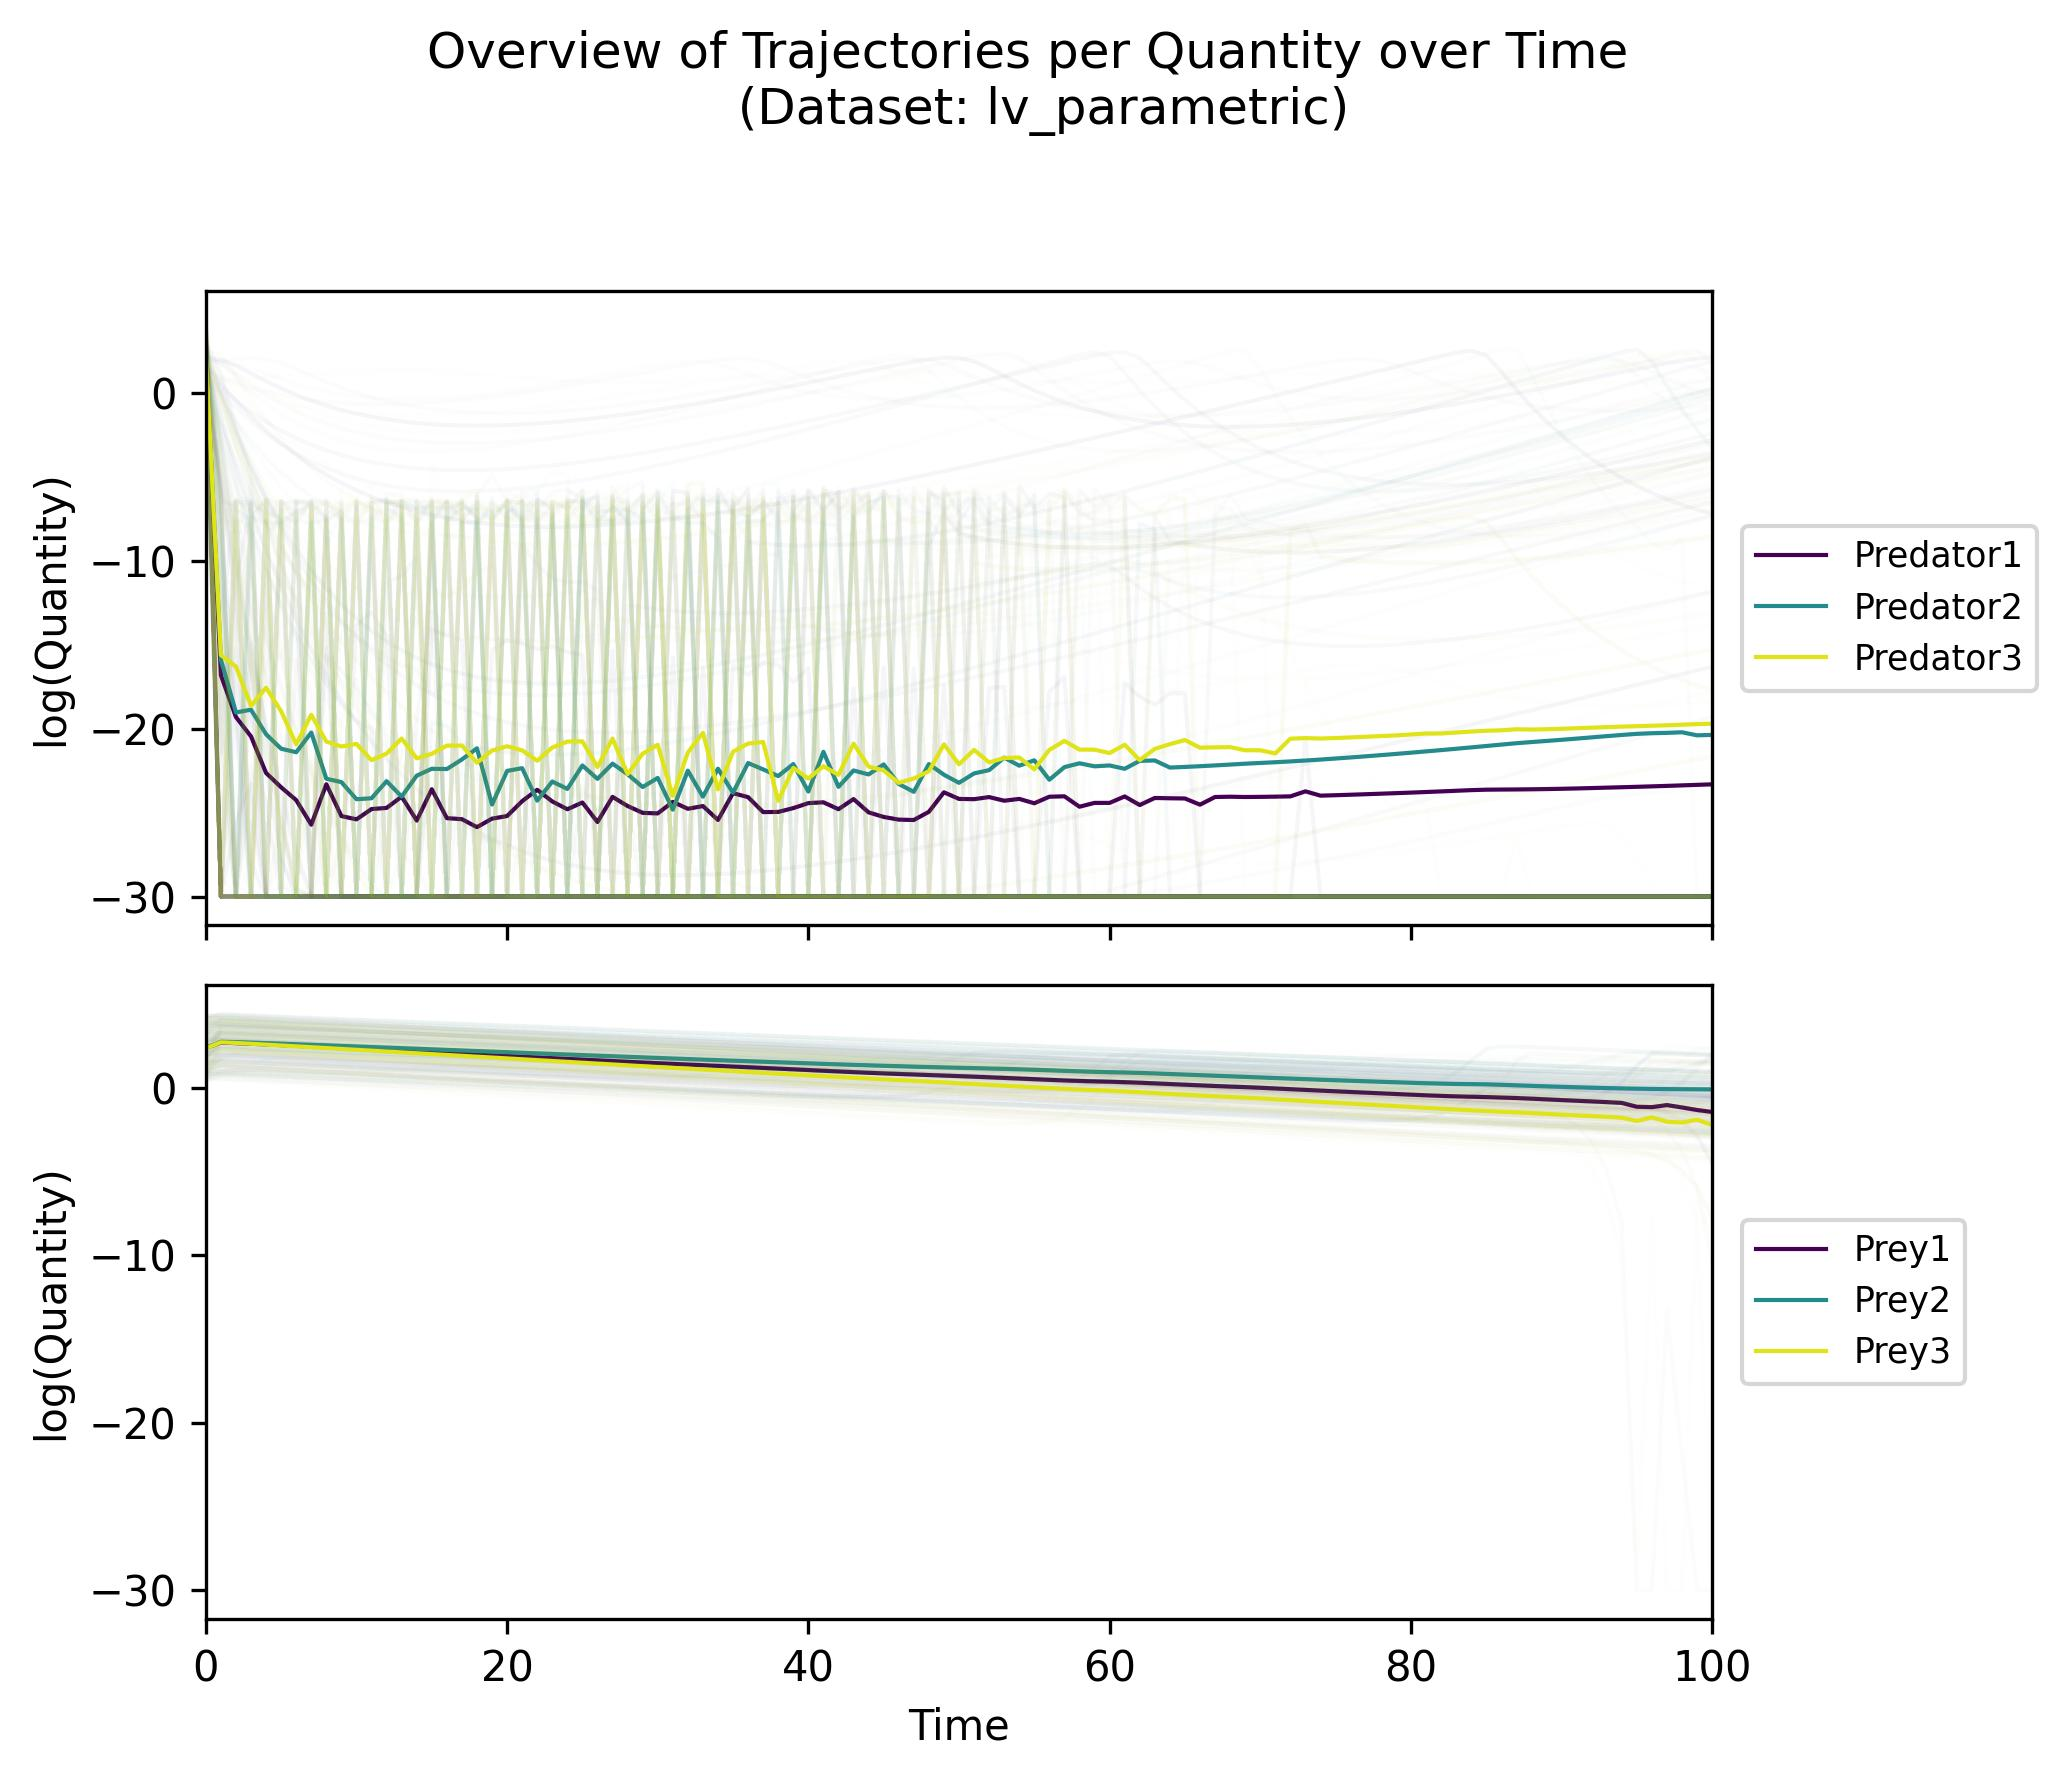
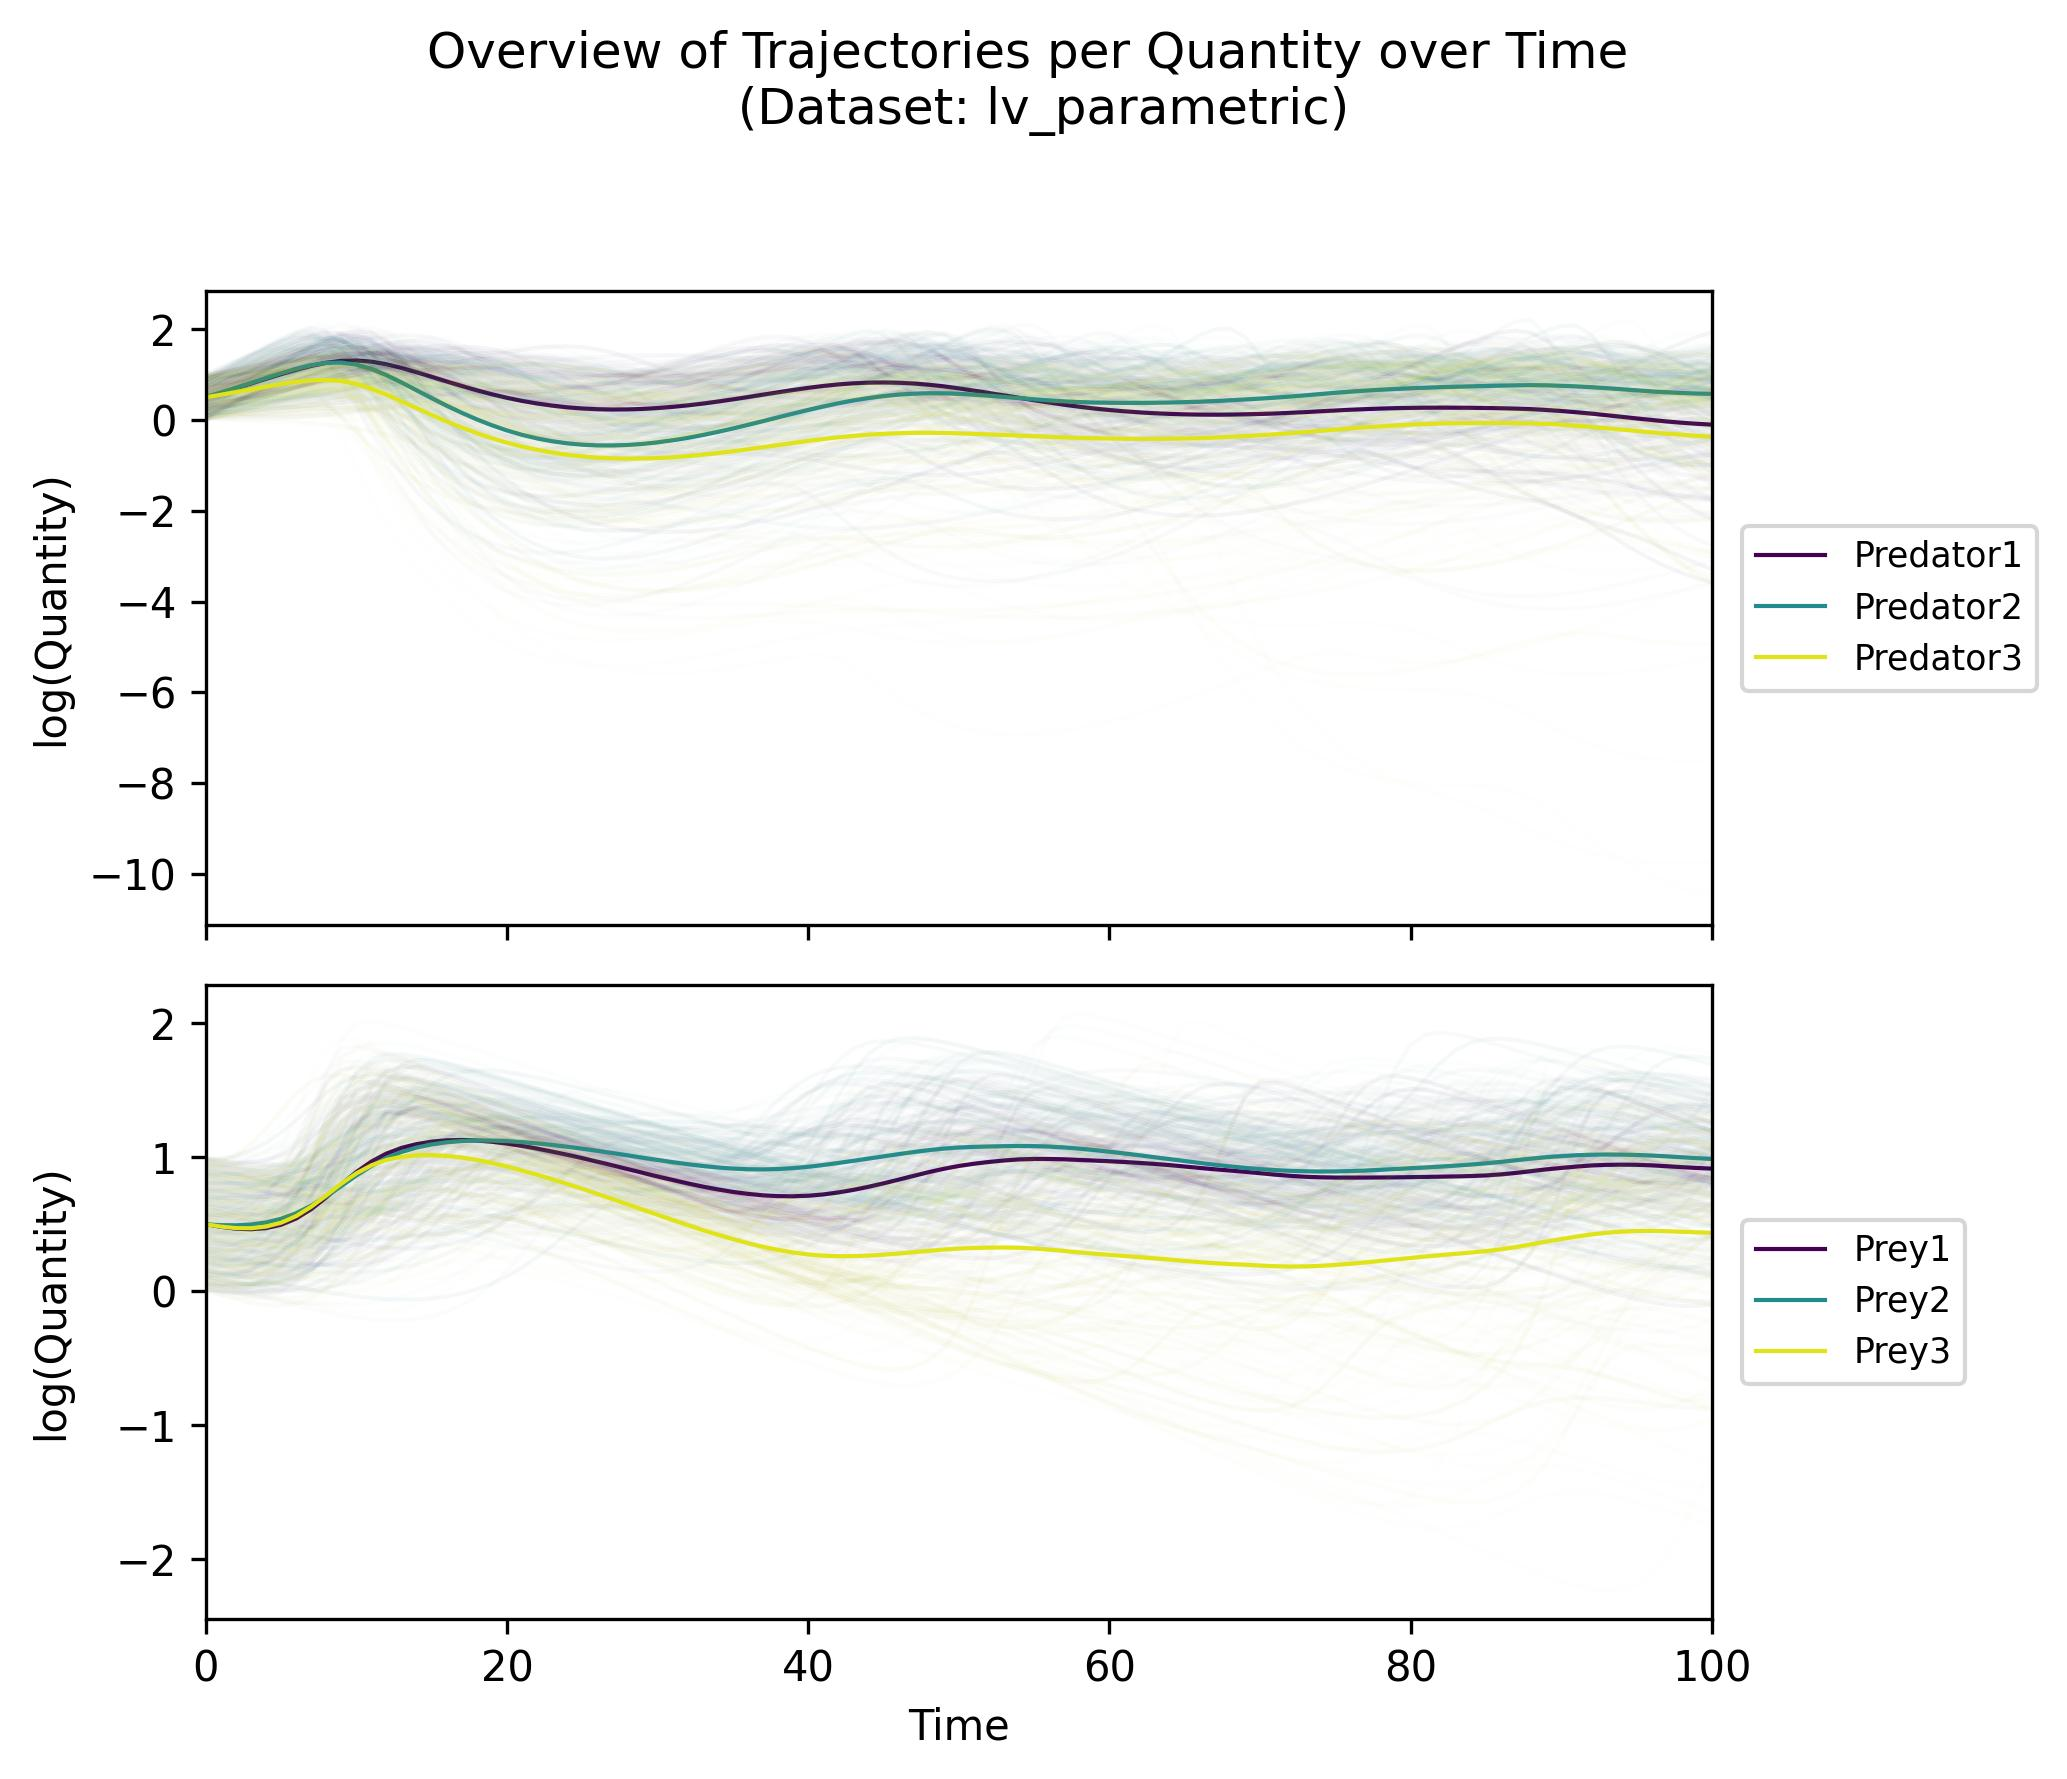
Fix parametric lv data generation

diff --git a/datasets/_data_generation/generate_data.py b/datasets/_data_generation/generate_data.py
@@ -63,49 +63,59 @@ def generate_initial_samples(
     """
     Generates Sobol samples for initial conditions and (optionally) fixed parameters.
 
-    Parameters
-    ----------
-    num : int
-        Number of samples.
-    sampling : dict
-        Sampling settings. This dictionary should contain:
-          - "bounds": bounds for the state variables.
-          - Optionally, "params_bounds": bounds for the fixed parameters.
-          - "space": sampling space for state variables ('linear' or 'log').
-          - Optionally, "params_space": sampling space for the parameters.
-    seed : int, optional
-        Random seed.
-
-    Returns
-    -------
-    tuple[np.ndarray, np.ndarray | None]
-        (initial_conditions, params)
-        with shapes (num, n_state) and (num, n_params) respectively.
+    Bounds are always in linear space. 'space' / 'params_space' only switch
+    between linear vs. log-uniform sampling across those linear bounds.
     """
     state_bounds = sampling["bounds"]
     params_bounds = sampling.get("params_bounds", None)
-    if params_bounds is not None:
-        combined_bounds = state_bounds + params_bounds
-    else:
-        combined_bounds = state_bounds
 
-    sobol_dim = len(combined_bounds)
+    # Determine sampling spaces
+    state_space = sampling.get("space", "linear")
+    params_space = sampling.get("params_space", state_space)
+
+    # Build per-dimension transformed bounds
+    transformed_bounds: list[tuple[float, float]] = []
+
+    # State dims
+    for lb, ub in state_bounds:
+        if state_space == "log":
+            if lb <= 0 or ub <= 0:
+                raise ValueError("All state bounds must be positive for log sampling.")
+            transformed_bounds.append((np.log(lb), np.log(ub)))
+        else:
+            transformed_bounds.append((lb, ub))
+
+    # Param dims (if any)
+    if params_bounds is not None:
+        for lb, ub in params_bounds:
+            if params_space == "log":
+                if lb <= 0 or ub <= 0:
+                    raise ValueError(
+                        "All param bounds must be positive for log sampling."
+                    )
+                transformed_bounds.append((np.log(lb), np.log(ub)))
+            else:
+                transformed_bounds.append((lb, ub))
+
+    # Sobol in the transformed space
+    sobol_dim = len(transformed_bounds)
     sampler = qmc.Sobol(d=sobol_dim, scramble=True, seed=seed)
     m = int(np.ceil(np.log2(num)))
-    samples = sampler.random_base2(m=m)[:num]
-    lower_bounds, upper_bounds = zip(*combined_bounds)
-    samples = qmc.scale(samples, lower_bounds, upper_bounds)
+    raw = sampler.random_base2(m=m)[:num]
+    lowers, uppers = zip(*transformed_bounds)
+    scaled = qmc.scale(raw, lowers, uppers)
 
+    # Split out states and params
     n_state = len(state_bounds)
-    initial_conditions = samples[:, :n_state]
-    params = samples[:, n_state:] if params_bounds is not None else None
+    initial_conditions = scaled[:, :n_state]
+    params = scaled[:, n_state:] if params_bounds is not None else None
 
-    if sampling.get("space", "linear") == "log":
+    # Exponentiate back any log-sampled dims
+    if state_space == "log":
         initial_conditions = np.exp(initial_conditions)
-    if params is not None:
-        p_space = sampling.get("params_space", sampling.get("space", "linear"))
-        if p_space == "log":
-            params = np.exp(params)
+    if params is not None and params_space == "log":
+        params = np.exp(params)
+
     return initial_conditions, params
 
 
@@ -274,9 +284,9 @@ def parse_args() -> ArgumentParser:
     parser = ArgumentParser(
         description="Generate datasets for ODE systems and save them in HDF5 format."
     )
-    parser.add_argument("--num_train", "-tr", type=int, default=70)
-    parser.add_argument("--num_test", "-te", type=int, default=10)
-    parser.add_argument("--num_val", "-va", type=int, default=20)
+    parser.add_argument("--num_train", "-tr", type=int, default=140)
+    parser.add_argument("--num_test", "-te", type=int, default=20)
+    parser.add_argument("--num_val", "-va", type=int, default=40)
     parser.add_argument(
         "--func",
         "-f",

diff --git a/datasets/_data_generation/odes.py b/datasets/_data_generation/odes.py
@@ -1435,7 +1435,7 @@ def osu_initial_conditions(num: int) -> np.ndarray:
     return ic
 
 
-def lotka_volterra(n: np.ndarray) -> np.ndarray:
+def lotka_volterra(t: float, n: np.ndarray) -> np.ndarray:
     """
     Defines the Lotka-Volterra predator-prey model with three predators and three prey.
 
@@ -1463,63 +1463,68 @@ def lotka_volterra(n: np.ndarray) -> np.ndarray:
     return derivatives
 
 
+import numpy as np
+
+
 def parametric_lotka_volterra(
     t: float, n: np.ndarray, params: np.ndarray
 ) -> np.ndarray:
     """
-    Defines a parametric Lotka–Volterra model for three predators and three prey.
-    The equations follow those of the standard Lotka–Volterra model, except that the
-    prey reproduction rates and predation coefficients are slightly modified by an
-    external parameter alpha.
+    Parametric Lotka–Volterra for three predators and three prey.
+
+    For alpha = 0, this is bit-for-bit identical to the base lotka_volterra:
+      dp1/dt = 0.5 p1 - 0.02 p1 q1 - 0.01 p1 q2
+      … etc …
+
+    For alpha > 0, prey growth rates are scaled by (1 - alpha)
+    and predation rates by (1 + alpha), giving a slight perturbation.
 
     Parameters
     ----------
     t : float
-        Current time (unused in these autonomous equations).
+        Time (unused; system is autonomous).
     n : np.ndarray
-        Current populations [p1, p2, p3, q1, q2, q3].
+        Populations [p1, p2, p3, q1, q2, q3].
     params : np.ndarray
-        Fixed parameter(s) [alpha]. A higher alpha might represent greater environmental stress.
+        [alpha], with alpha ≥ 0 controlling deviation.
 
     Returns
     -------
     np.ndarray
-        Derivatives [dp1/dt, dp2/dt, dp3/dt, dq1/dt, dq2/dt, dq3/dt].
+        Derivatives [dp1_dt, dp2_dt, dp3_dt, dq1_dt, dq2_dt, dq3_dt].
     """
-    # Unpack populations:
     p1, p2, p3, q1, q2, q3 = n
-    alpha = params[0]  # external parameter controlling the slight modifications
-    epsilon = 0.0  # 0.001  # small factor for a slight modification
+    alpha = params[0]
 
-    # Modified reproduction rates (same as lotka_volterra with a small reduction)
-    rep_p1 = (0.5 * (1 - epsilon * alpha)) * p1
-    rep_p2 = (0.6 * (1 - epsilon * alpha)) * p2
-    rep_p3 = (0.4 * (1 - epsilon * alpha)) * p3
+    # --- reproduction rates (prey) ---
+    # baseline: 0.5, 0.6, 0.4
+    rep_p1 = 0.5 * (1.0 - alpha) * p1
+    rep_p2 = 0.6 * (1.0 - alpha) * p2
+    rep_p3 = 0.4 * (1.0 - alpha) * p3
 
-    # Modified predation terms (scaled slightly upward)
-    pred1 = (0.02 * (1 + epsilon * alpha)) * p1 * q1 + (
-        0.01 * (1 + epsilon * alpha)
-    ) * p1 * q2
-    pred2 = (0.03 * (1 + epsilon * alpha)) * p2 * q1 + (
-        0.015 * (1 + epsilon * alpha)
-    ) * p2 * q3
-    pred3 = (0.01 * (1 + epsilon * alpha)) * p3 * q2 + (
-        0.025 * (1 + epsilon * alpha)
-    ) * p3 * q3
+    # --- predation terms ---
+    # baseline coefficients: 0.02, 0.01, 0.03, 0.015, 0.01, 0.025
+    pred1 = (0.02 * (1.0 + alpha)) * p1 * q1 + (0.01 * (1.0 + alpha)) * p1 * q2
 
-    # Predator death rates (unchanged)
+    pred2 = (0.03 * (1.0 + alpha)) * p2 * q1 + (0.015 * (1.0 + alpha)) * p2 * q3
+
+    pred3 = (0.01 * (1.0 + alpha)) * p3 * q2 + (0.025 * (1.0 + alpha)) * p3 * q3
+
+    # --- predator death rates (unchanged) ---
     death_q1 = 0.1 * q1
     death_q2 = 0.08 * q2
     death_q3 = 0.12 * q3
 
-    # Predator gains (unchanged)
+    # --- predator gains (unchanged) ---
     gain_q1 = 0.005 * p1 * q1 + 0.007 * p2 * q1
     gain_q2 = 0.006 * p1 * q2 + 0.009 * p3 * q2
     gain_q3 = 0.008 * p2 * q3 + 0.01 * p3 * q3
 
+    # --- assemble derivatives ---
     dp1_dt = rep_p1 - pred1
     dp2_dt = rep_p2 - pred2
     dp3_dt = rep_p3 - pred3
+
     dq1_dt = -death_q1 + gain_q1
     dq2_dt = -death_q2 + gain_q2
     dq3_dt = -death_q3 + gain_q3
@@ -1655,7 +1660,7 @@ FUNCS: Dict[str, Dict[str, Any]] = {
                 (1, 10.0),
             ],
             "params_space": "linear",
-            "params_bounds": [(0.0, 1.0)],
+            "params_bounds": [(0.0, 0.5)],
         },
         # "solver_options": {"method": "BDF", "atol": 1e-8, "rtol": 1e-8},
     },

diff --git a/codes/utils/data_utils.py b/codes/utils/data_utils.py
@@ -630,6 +630,7 @@ def download_data(dataset_name: str, path: str | None = None, verbose: bool = Tr
     if os.path.isfile(data_path):
         if verbose:
             print(f"Dataset '{dataset_name}' already exists at {data_path}.")
+            print_data_info(data_path)
         return
 
     with open("datasets/data_sources.yaml", "r", encoding="utf-8") as file:
@@ -650,3 +651,27 @@ def download_data(dataset_name: str, path: str | None = None, verbose: bool = Tr
     ) as t:
         urllib.request.urlretrieve(url, data_path, reporthook=t.update_to)
     print(f"Dataset '{dataset_name}' downloaded successfully.")
+    if verbose:
+        print_data_info(data_path)
+
+
+def print_data_info(data_path):
+    with h5py.File(data_path, "r") as f:
+        print("Dataset Info:")
+        n_quantities = f.attrs["n_quantities"]
+        train_samples = f.attrs["n_train_samples"]
+        test_samples = f.attrs["n_test_samples"]
+        val_samples = f.attrs["n_val_samples"]
+        total_samples = train_samples + test_samples + val_samples
+        if "n_parameters" in f.attrs:
+            n_parameters = f.attrs["n_parameters"]
+            print(
+                f" - Dataset comprises {n_quantities} quantities and {n_parameters} parameters."
+            )
+        else:
+            print(
+                f" - Dataset comprises {n_quantities} quantities and no additional parameters."
+            )
+        print(
+            f" - Total of {total_samples} samples, train/test/val split is {train_samples}/{test_samples}/{val_samples}."
+        )
